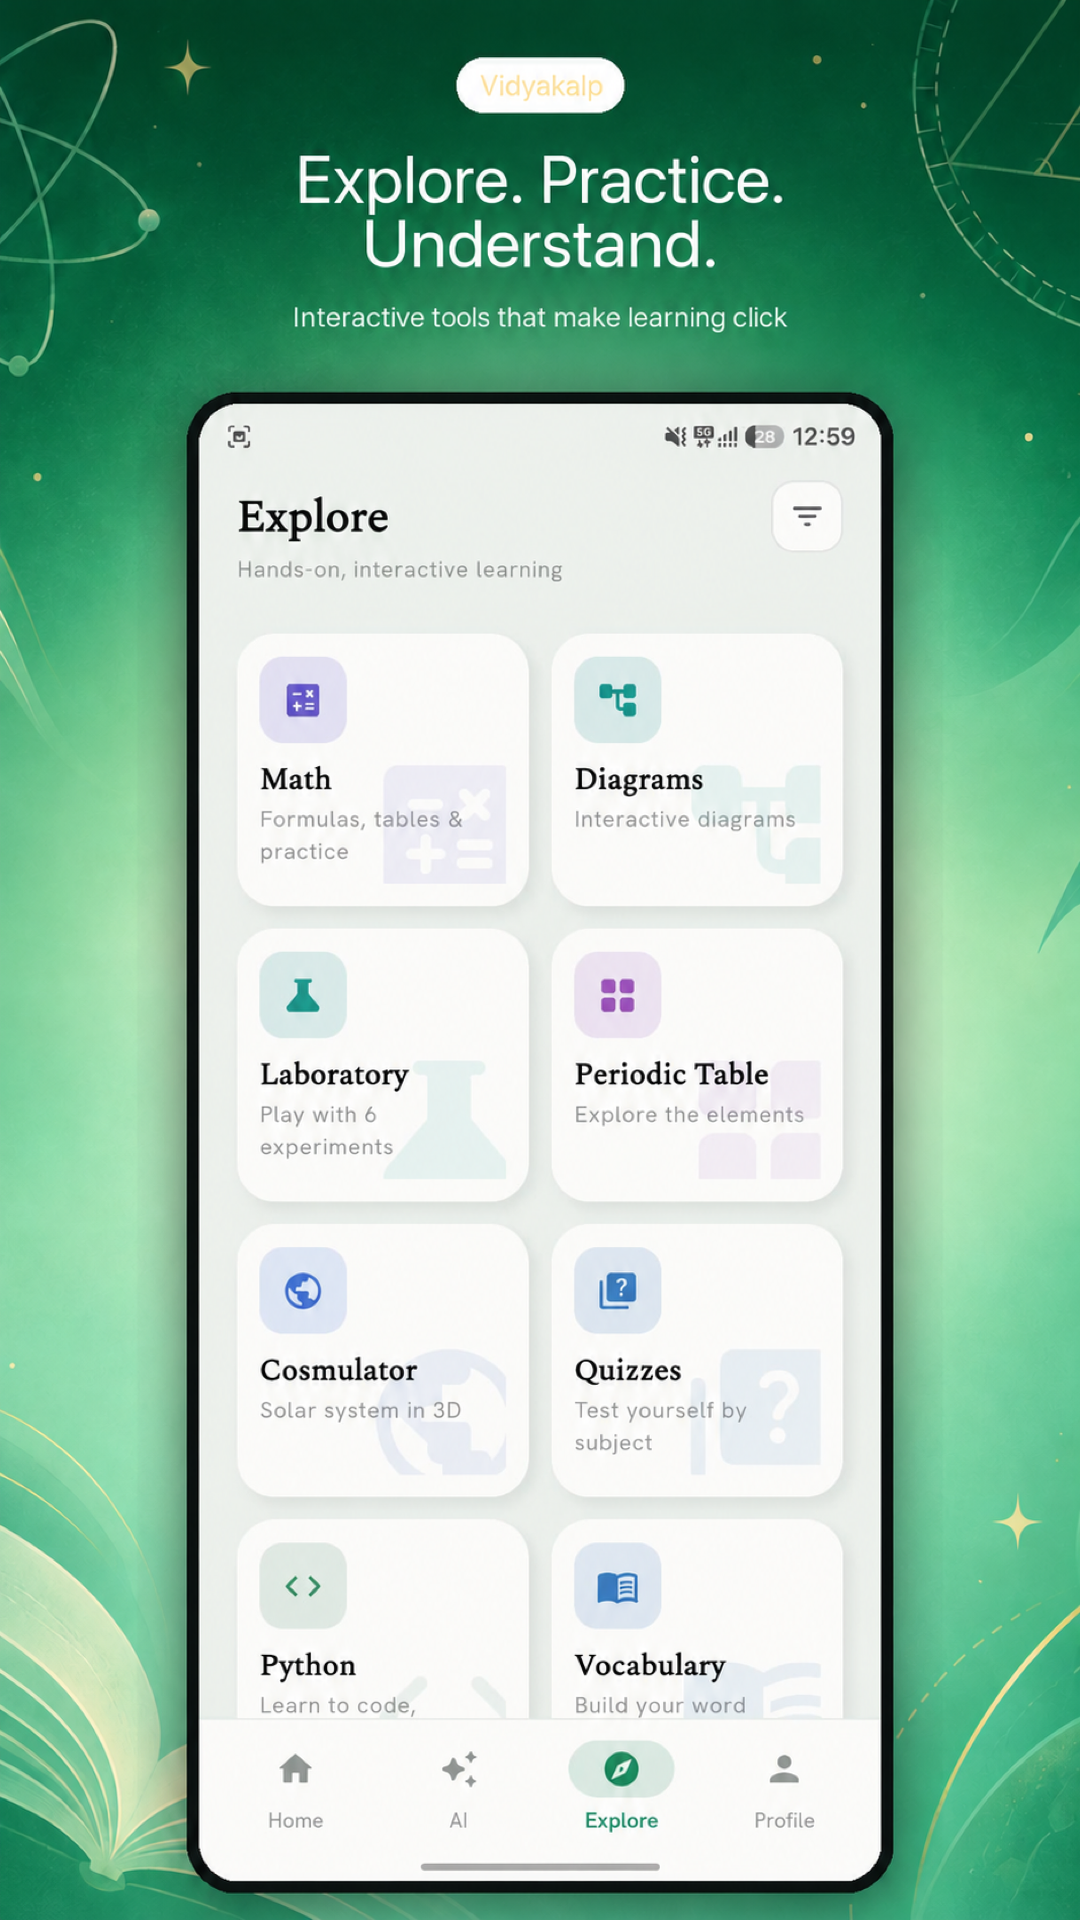
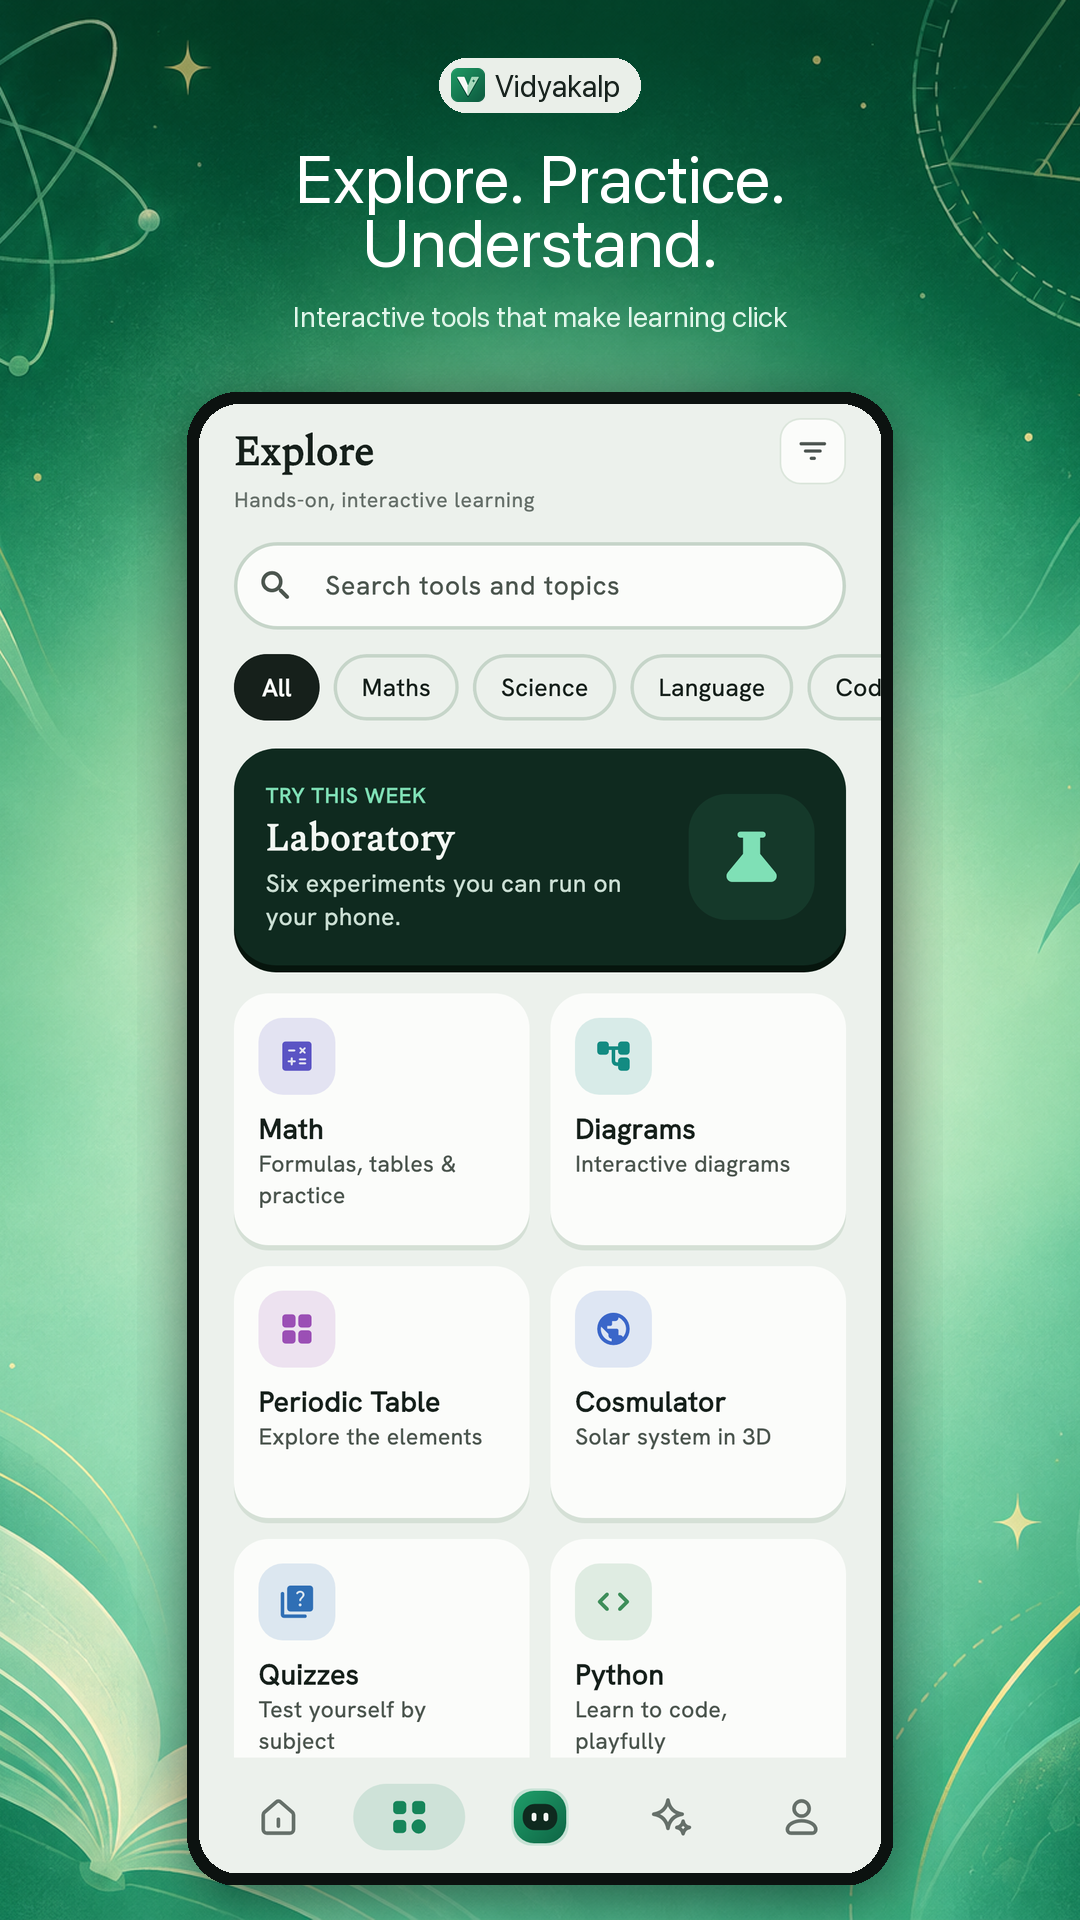
1.2.1

diff --git a/lib/app/app_info.dart b/lib/app/app_info.dart
@@ -1,3 +1,3 @@
 /// Version shown to students in Settings and About. Keep in step with the
 /// `version:` line in pubspec.yaml (a test checks this).
-const kAppVersionName = '1.2.0';
+const kAppVersionName = '1.2.1';

diff --git a/marketing/play-store-2026/build_assets.py b/marketing/play-store-2026/build_assets.py
@@ -2,7 +2,7 @@ from __future__ import annotations
 
 from pathlib import Path
 
-from PIL import Image, ImageDraw, ImageFilter, ImageFont, ImageOps
+from PIL import Image, ImageCms, ImageDraw, ImageFilter, ImageFont, ImageOps
 
 
 ROOT = Path("/Users/rudra/projects/vidyalaya")
@@ -141,10 +141,14 @@ def build_screenshot(filename: str, source: Path, headline: str, subline: str) -
     pill_font = font(30)
     pill_text = "Vidyakalp"
     pill_box = draw.textbbox((0, 0), pill_text, font=pill_font)
-    pill_width = pill_box[2] - pill_box[0] + 52
+    mark_size = 34
+    pill_width = pill_box[2] - pill_box[0] + mark_size + 42
     pill_x = (1080 - pill_width) // 2
-    draw.rounded_rectangle((pill_x, 58, pill_x + pill_width, 112), radius=27, fill=(255, 255, 255, 50), outline=(255, 255, 255, 95), width=2)
-    draw.text((pill_x + 26, 68), pill_text, font=pill_font, fill="#FFF2C6")
+    draw.rounded_rectangle((pill_x, 58, pill_x + pill_width, 112), radius=27, fill="#EAEFE9")
+    with Image.open(ROOT / "assets/icon/vmark.png") as mark:
+        mark = mark.resize((mark_size, mark_size), Image.Resampling.LANCZOS)
+        background.alpha_composite(mark, (pill_x + 12, 68))
+    draw.text((pill_x + 56, 68), pill_text, font=pill_font, fill="#16211C")
 
     centered_text(draw, headline, 137, font(68), "#FFFFFF", spacing=-2)
     centered_text(draw, subline, 298, font(29), "#E2F7EB")
@@ -210,16 +214,19 @@ def build_icon() -> Path:
     ).convert("RGBA")
     icon = source.resize((512, 512), Image.Resampling.LANCZOS)
     output = OUT / "app-icon-512x512.png"
-    icon.save(output, "PNG", optimize=True)
+    srgb = ImageCms.ImageCmsProfile(ImageCms.createProfile("sRGB")).tobytes()
+    icon.save(output, "PNG", optimize=True, icc_profile=srgb)
     return output
 
 
 def build_contact_sheet(paths: list[Path]) -> Path:
     thumb_size = (270, 480)
-    sheet = Image.new("RGB", (thumb_size[0] * 3, thumb_size[1] * 3), "#102D23")
+    columns = 3 if len(paths) <= 9 else 5
+    rows = (len(paths) + columns - 1) // columns
+    sheet = Image.new("RGB", (thumb_size[0] * columns, thumb_size[1] * rows), "#102D23")
     for index, path in enumerate(paths):
         thumb = Image.open(path).convert("RGB").resize(thumb_size, Image.Resampling.LANCZOS)
-        sheet.paste(thumb, ((index % 3) * thumb_size[0], (index // 3) * thumb_size[1]))
+        sheet.paste(thumb, ((index % columns) * thumb_size[0], (index // columns) * thumb_size[1]))
     output = OUT / "screenshots-preview.jpg"
     sheet.save(output, "JPEG", quality=88, optimize=True)
     return output

diff --git a/marketing/play-store-2026/README.md b/marketing/play-store-2026/README.md
@@ -1,36 +1,23 @@
-# Vidyakalp — Google Play assets
+# Vidyakalp Google Play assets
 
-Upload-ready files:
+## Version 1.2.1
 
-- `app-icon-512x512.png` — 512 × 512 RGBA PNG
-- `feature-graphic-1024x500.png` — 1024 × 500 RGB PNG
-- `screenshots/*.png` — nine 1080 × 1920 RGB PNG phone screenshots
+- [App icon](app-icon-512x512.png) — 512 × 512 sRGB RGBA PNG, exported from the current book-cover artwork.
+- [Home](screenshots/01-home.png)
+- [AI Learning](screenshots/02-ai-learning.png)
+- [AI chat](screenshots/05-ai-qa.png)
+- [Explore](screenshots/03-explore.png)
+- [Profile](screenshots/10-profile.png)
 
-The screenshots preserve the supplied app UI and add a branded phone frame,
-educational background, and short student-focused headline. The launcher icon is
-exported directly from the current iOS/Android app artwork rather than redrawn.
+The five phone screenshots are 1080 × 1920 RGB PNGs. They use current Flutter
+screens rendered with demo data inside the existing campaign layout.
 
-`screenshots-preview.jpg` is a contact sheet for review and should not be uploaded
-as a store screenshot.
+The other campaign screenshots and the [feature graphic](feature-graphic-1024x500.png)
+remain available in this folder. The [contact sheet](screenshots-preview.jpg)
+is for review. Google Play allows up to eight screenshots per device type, so
+select up to three earlier images if uploading all five refreshed screenshots.
 
-The generated background sources and composition script are included. The script
-expects original phone screenshots at its configured temporary attachment paths;
-those source screenshots are not bundled and must be supplied before rebuilding.
-
-The saved campaign images were rebranded using built-in ImageGen with this brief:
-replace the brand lettering with “Vidyakalp”, preserving the existing style,
-layout, phone UI, and other text.
-
-The launcher icon uses these exact lines:
-
-- Vidyakalp
-- Odia Medium • CBSE
-- AI Answer Guide
-
-Its built-in ImageGen edit brief replaces the two tagline lines with the wording
-above while preserving the book illustration, palette, wordmark, corner badge,
-divider, and ribbon. Splash artwork keeps the brand wordmark alone.
-
-Platform icons are regenerated from `assets/icon/vidyalaya.png` with
-`dart run flutter_launcher_icons`, and splash branding with
-`dart run flutter_native_splash:create`. Asset filenames stay unchanged.
+`build_assets.py` composes supplied raw captures into the campaign layout. Its
+historical batch inputs refer to temporary attachment paths, so those files are
+required to rebuild that batch. See [app artwork](../../assets/icon/README.md)
+for the launcher and splash sources.
